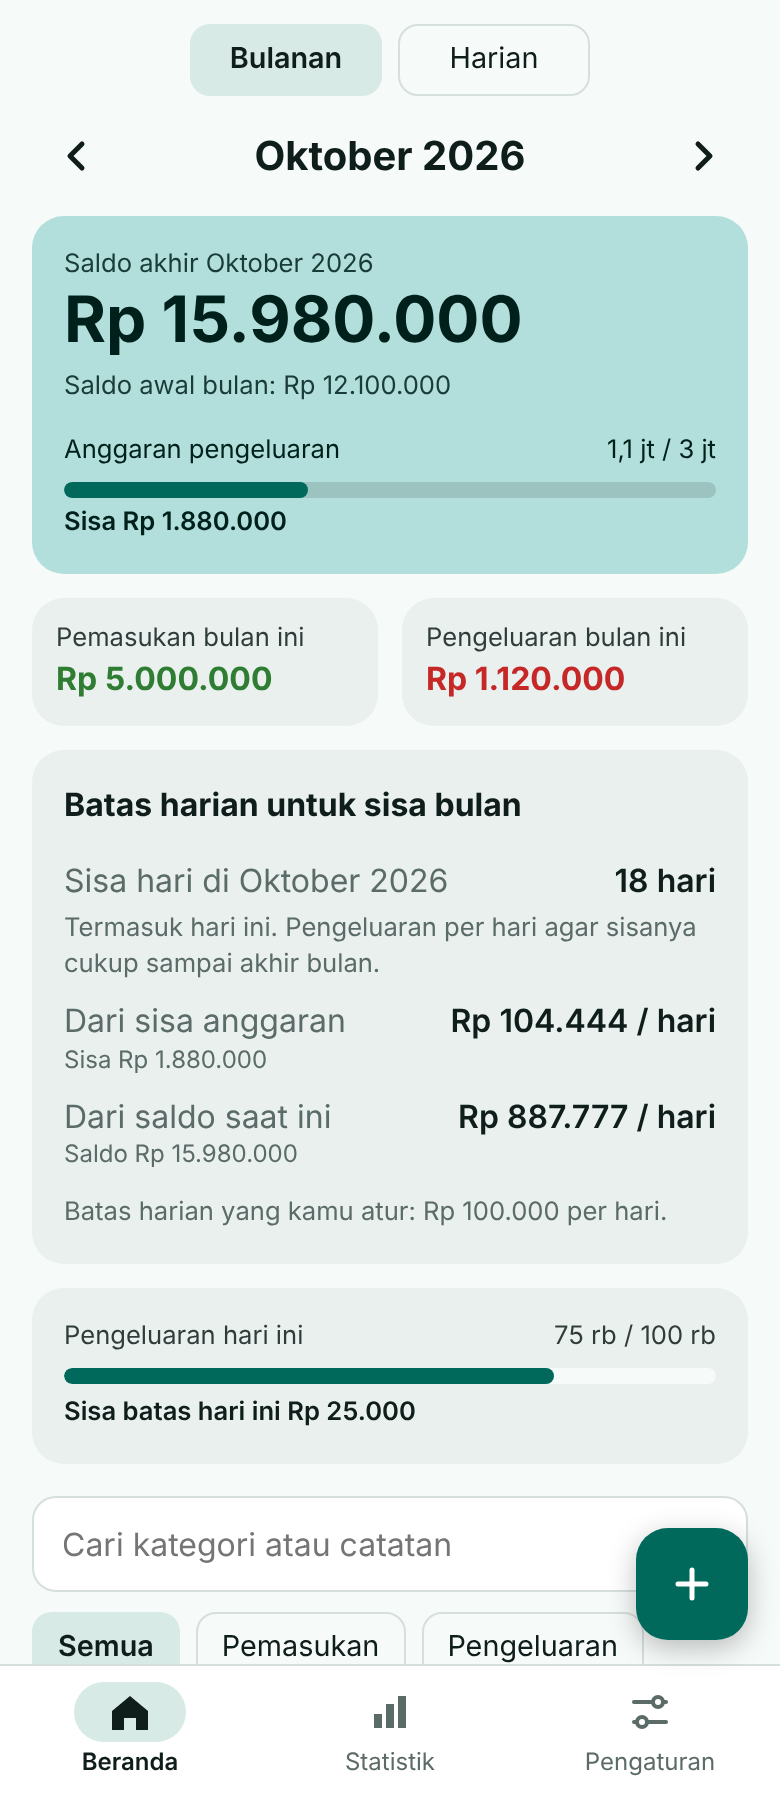
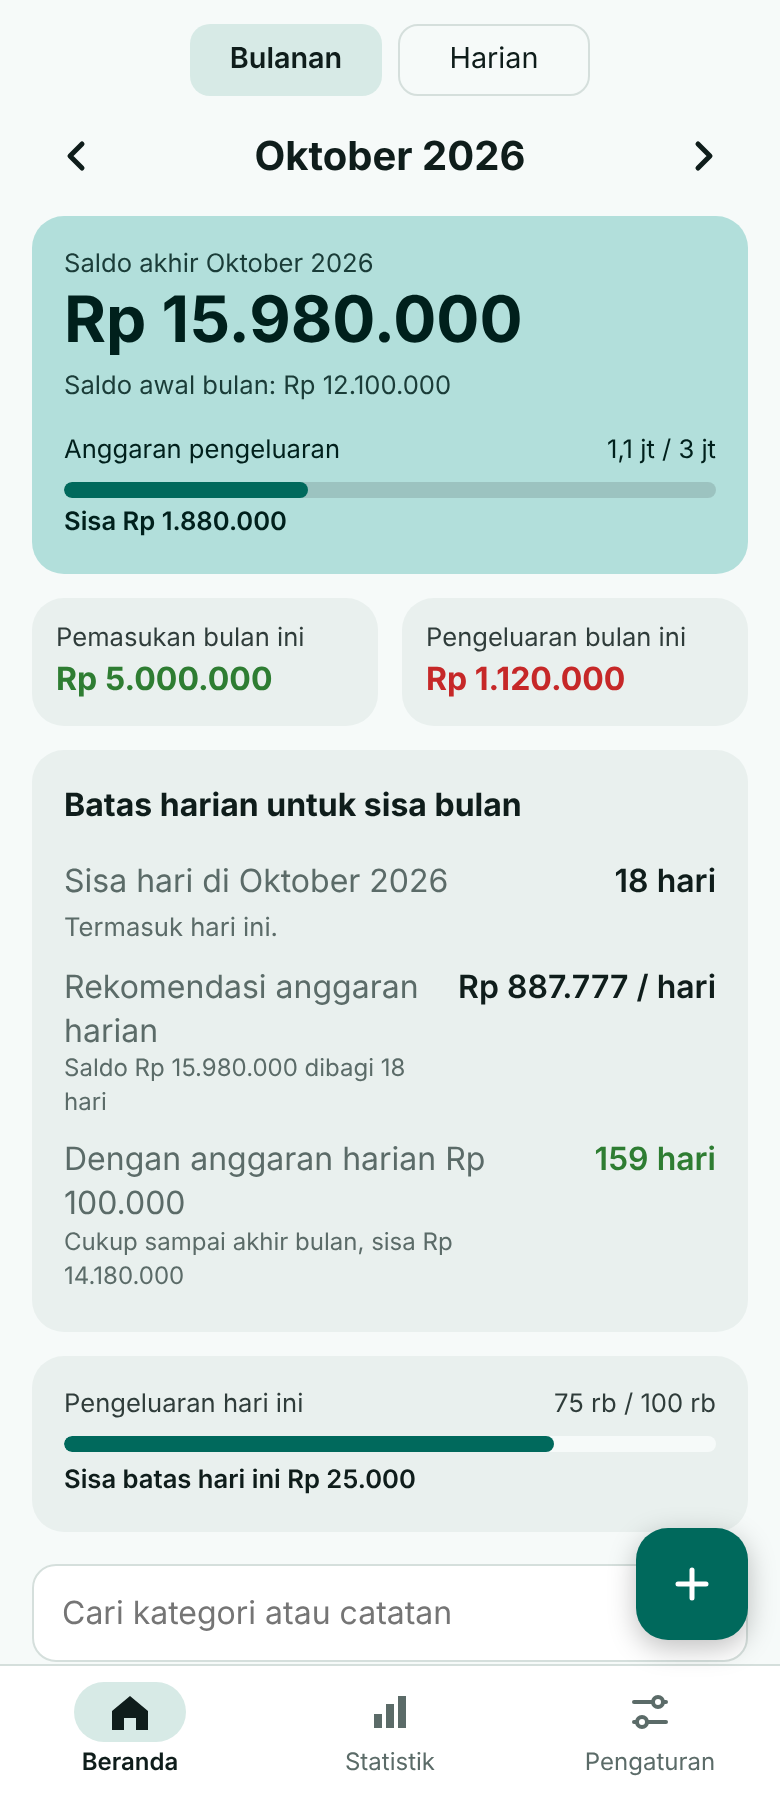
Proyeksi bulanan: rekomendasi anggaran harian dan lama saldo cukup
Claude-Session: https://claude.ai/code/session_01PoaaqTZ6TSVxPmi1eVRVKY

diff --git a/app.js b/app.js
@@ -273,28 +273,41 @@ function summaryHtml(opening, income, expense) {
 }
 
 // Proyeksi batas harian untuk sisa bulan berjalan (hari ini ikut dihitung)
-function projectionCard(balance, expense) {
+function projectionCard(balance) {
   if (ui.month !== currentMonthIndex()) return '';
   const now = new Date();
   const daysLeft = daysInMonth(ui.month) - now.getDate() + 1;
-  const budget = settings.budget || 0;
   const lim = settings.dailyLimit || 0;
-  const per = (amount) => (amount > 0 ? Math.floor(amount / daysLeft) : 0);
-  const line = (label, amount, note) => {
-    const ok = amount > 0;
-    return '<div class="line proj"><span>' + label + '<small class="proj-note">' + note + '</small></span>' +
-      '<span class="' + (ok ? '' : 'out') + '">' + (ok ? fmtRp(per(amount)) + ' / hari' : 'Tidak tersisa') + '</span></div>';
-  };
-  let rows = '';
-  if (budget > 0) rows += line('Dari sisa anggaran', budget - expense, 'Sisa ' + fmtRp(Math.max(0, budget - expense)));
-  rows += line('Dari saldo saat ini', balance, 'Saldo ' + fmtRp(balance));
-  const hint = lim > 0
-    ? '<div class="small muted" style="margin-top:8px">Batas harian yang kamu atur: ' + fmtRp(lim) + ' per hari.</div>'
-    : '';
+  const row = (label, note, value, cls) =>
+    '<div class="line proj"><span>' + label + '<small class="proj-note">' + note + '</small></span>' +
+    '<span class="' + (cls || '') + '">' + value + '</span></div>';
+
+  // Rekomendasi: saldo saat ini dibagi sisa hari
+  const rec = balance > 0 ? Math.floor(balance / daysLeft) : 0;
+  const recRow = row('Rekomendasi anggaran harian',
+    'Saldo ' + fmtRp(balance) + ' dibagi ' + daysLeft + ' hari',
+    balance > 0 ? fmtRp(rec) + ' / hari' : 'Saldo tidak tersisa', balance > 0 ? '' : 'out');
+
+  // Jika memakai batas harian dari pengaturan: saldo cukup untuk berapa hari
+  let limRow;
+  if (lim > 0) {
+    const days = balance > 0 ? Math.floor(balance / lim) : 0;
+    let note;
+    if (days <= 0) note = 'Saldo tidak cukup untuk satu hari';
+    else if (days >= daysLeft) note = 'Cukup sampai akhir bulan, sisa ' + fmtRp(balance - lim * daysLeft);
+    else {
+      const last = new Date(now.getFullYear(), now.getMonth(), now.getDate() + days - 1);
+      note = 'Saldo habis setelah tanggal ' + last.toLocaleDateString('id-ID', { day: 'numeric', month: 'short' });
+    }
+    limRow = row('Dengan anggaran harian ' + fmtRp(lim), note, days + ' hari', days >= daysLeft ? 'in' : (days <= 0 ? 'out' : ''));
+  } else {
+    limRow = row('Dengan anggaran harian dari pengaturan', 'Belum diatur. Isi di Pengaturan > Batas pengeluaran harian.', '-');
+  }
+
   return '<div class="card" style="margin-top:12px"><h2>Batas harian untuk sisa bulan</h2>' +
     '<div class="line"><span>Sisa hari di ' + monthLabel(ui.month) + '</span><span>' + daysLeft + ' hari</span></div>' +
-    '<div class="small muted" style="margin-bottom:4px">Termasuk hari ini. Pengeluaran per hari agar sisanya cukup sampai akhir bulan.</div>' +
-    rows + hint + '</div>';
+    '<div class="small muted" style="margin-bottom:4px">Termasuk hari ini.</div>' +
+    recRow + limRow + '</div>';
 }
 
 function chip(label, action, value, active) {
@@ -340,7 +353,7 @@ function renderHome() {
   const opening = ui.view === 'day' ? balanceBeforeDay(dayKey(ui.day)) : balanceBeforeMonth(ui.month);
   return viewToggle() + (ui.view === 'day' ? daySelector() : monthSelector()) +
     summaryHtml(opening, sum(items, IN), sum(items, OUT)) +
-    (ui.view === 'month' ? projectionCard(opening + sum(items, IN) - sum(items, OUT), sum(items, OUT)) : '') +
+    (ui.view === 'month' ? projectionCard(opening + sum(items, IN) - sum(items, OUT)) : '') +
     dailyCard() +
     '<div class="toolbar">' +
     '<div class="search"><input id="q" type="search" placeholder="Cari kategori atau catatan" value="' + esc(ui.query) + '" autocomplete="off"></div>' +

diff --git a/sw.js b/sw.js
@@ -1,7 +1,7 @@
 // Service worker: aplikasi bisa dibuka offline.
 // Strategi: ambil versi terbaru dari jaringan (maks. 4 detik); jika offline atau lambat,
 // pakai salinan di cache. Dengan begitu pembaruan langsung terlihat saat online.
-const CACHE = 'keuanganku-v10';
+const CACHE = 'keuanganku-v11';
 const ASSETS = [
   './',
   'index.html',

diff --git a/README.md b/README.md
@@ -34,7 +34,7 @@ Tangkapan layar memakai data contoh.
 - **Transaksi:** tambah, ubah, hapus. Nominal dengan pemisah ribuan, kategori, tanggal, dan catatan.
 - **Beranda:** pilih tampilan **Bulanan** atau **Harian**, pindah antar bulan atau antar hari, pencarian, filter pemasukan/pengeluaran, riwayat dikelompokkan per hari. Tampilan harian menampilkan progress anggaran harian (dari batas harian, atau otomatis dari anggaran bulanan bila batas harian belum diisi). Pilihan tampilan diingat.
 - **Saldo berlanjut (tidak reset tiap bulan):** saldo akhir sebuah bulan (atau hari) otomatis menjadi saldo awal periode berikutnya. Isi **Saldo awal** di Pengaturan untuk uang yang sudah Anda punya sebelum mulai mencatat. Transaksi lama tidak diubah, hanya cara menghitung saldonya.
-- **Batas harian untuk sisa bulan** (tampilan Bulanan, bulan berjalan): menampilkan sisa hari di bulan itu (termasuk hari ini) dan berapa pengeluaran per hari yang aman, dihitung dari sisa anggaran bulanan dan dari saldo saat ini.
+- **Batas harian untuk sisa bulan** (tampilan Bulanan, bulan berjalan): menampilkan sisa hari di bulan itu (termasuk hari ini), **rekomendasi anggaran harian** (saldo saat ini dibagi sisa hari), dan saldo cukup untuk berapa hari bila memakai batas harian dari Pengaturan (lengkap dengan tanggal saldo habis).
 - **Anggaran bulanan** dengan progress bar yang berubah warna saat mendekati batas.
 - **Batas pengeluaran harian:** kartu "hari ini", petunjuk sisa batas saat mengisi transaksi, peringatan saat melewati batas, dan penanda hari yang melewati batas. Ada saran batas dari anggaran bulanan.
 - **Kategori kustom:** tambah dan hapus kategori sendiri (pengeluaran dan pemasukan) di Pengaturan, maksimal 20 per jenis dan 20 karakter per nama. Tampil di form transaksi sebelum "Lainnya", ikut statistik, dan ikut tersinkron. Menghapus kategori tidak mengubah transaksi lama.
